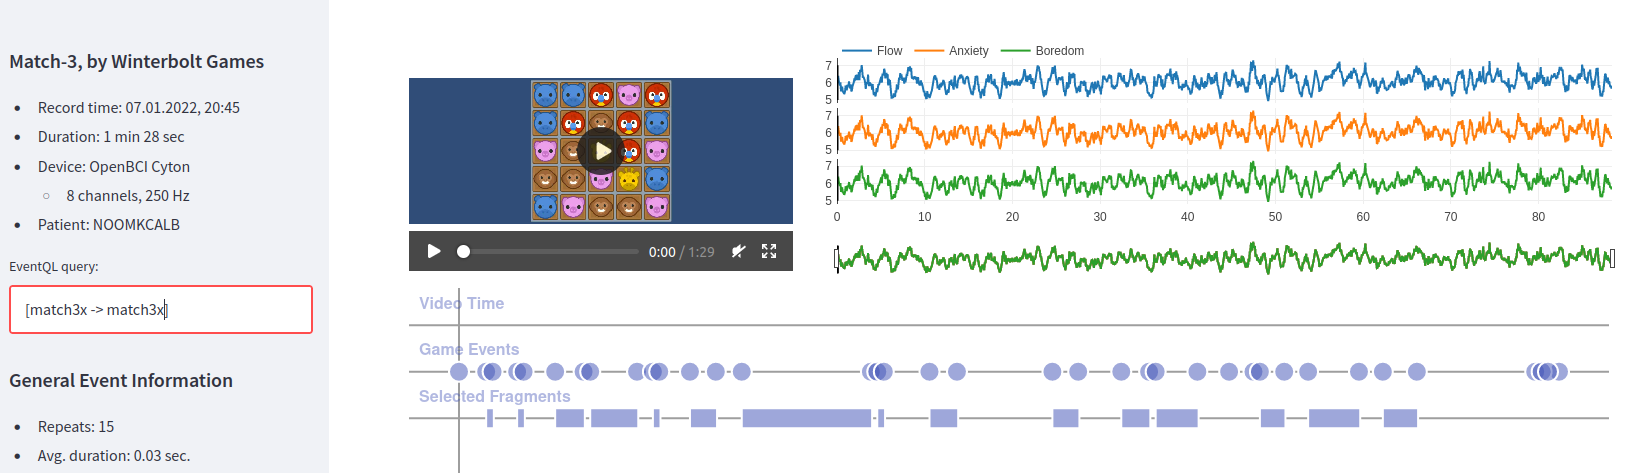
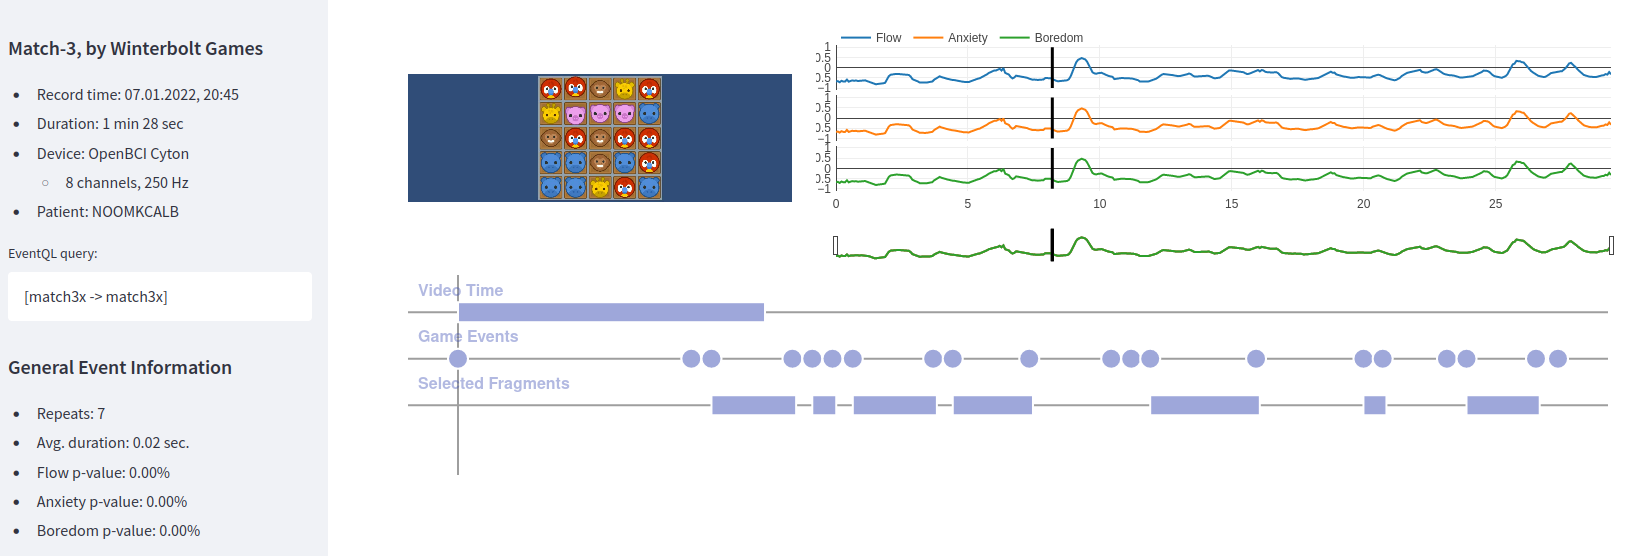
Fixed real playback data

diff --git a/simple-interface/frontend/src/App.js b/simple-interface/frontend/src/App.js
@@ -26,7 +26,7 @@ function getVerticalLine(currentTime, axis) {
   var line = {
     type: 'line',
     x: [currentTime, currentTime],
-    y: [7, 5],
+    y: [1, -1],
     xaxis: 'x',
     name: 'Position',
     mode: 'lines',

diff --git a/simple-interface/app.py b/simple-interface/app.py
@@ -49,9 +49,9 @@ events_df['end'] = events_df['end_sec']
 events_df = process_events(events_df, 'events-lane')
 
 st.sidebar.markdown("""
- ## Legend of Zelda: Breath of the Wild
- * Record time: 20.05.2022, 11:00
- * Duration: 7 min 31 sec
+ ## Match-3, by Winterbolt Games
+ * Record time: 07.01.2022, 20:45
+ * Duration: 1 min 28 sec
  * Device: OpenBCI Cyton
    * 8 channels, 250 Hz
  * Patient: NOOMKCALB
@@ -80,11 +80,11 @@ events_json = events_df.to_dict(orient='records') +\
 stat_text = [
     "## General Event Information",
     f"* Repeats: {abtest_stats['count']}",
-    f"* Avg. duration: {round(abtest_stats['length'] / 100, 2)} sec.",
+    f"* Avg. duration: {abtest_stats['length'] / 100:.2f} sec.",
 ]
 
 for i, score in enumerate(abtest_stats['scores']):
-    stat_text.append(f'* {channel_names[i]} p-value: {score * 100}%')
+    stat_text.append(f'* {channel_names[i].capitalize()} p-value: {score * 100:.2f}%')
 
 os.system('cp ./mock-session.mp4 ./frontend/public/')
 
@@ -93,9 +93,9 @@ game_viewer_component(
     signal={
         'time': time.tolist(),
         'duration': time.max(),
-        'boredom': timeseries_df['flow'].tolist(),
+        'boredom': timeseries_df['boredom'].tolist(),
         'flow': timeseries_df['flow'].tolist(),
-        'anxiety': timeseries_df['flow'].tolist()
+        'anxiety': timeseries_df['anxiety'].tolist()
     },
     events=events_json
 )
